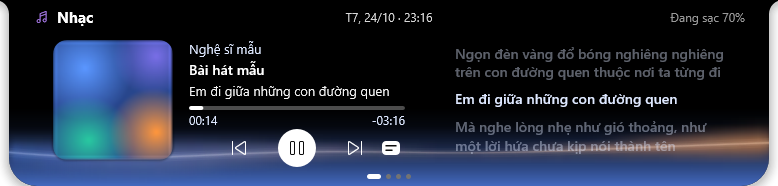
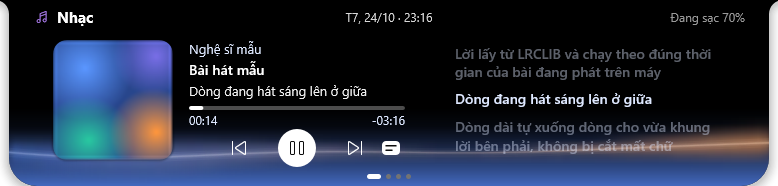
docs: ảnh trang Nhạc vẽ bằng renderer với dữ liệu tự tạo (bìa mảng màu, Bài hát mẫu, lời mô tả tính năng), không dùng bài hát thật; lời mẫu trong lyrics_preview

diff --git a/src/render.rs b/src/render.rs
@@ -2375,10 +2375,11 @@ mod tests {
             let (w, h) = (820, 210);
             let hwnd = CreateWindowExW(WS_EX_LAYERED, w!("STATIC"), w!("Lyrics preview"), WS_POPUP, 0, 0, w, h, None, None, None, None).unwrap();
             let lines = [
-                (0, "Đêm nay phố vắng người qua"), (6_000, "Ngọn đèn vàng đổ bóng nghiêng nghiêng trên con đường quen thuộc nơi ta từng đi"),
-                (12_000, "Em đi giữa những con đường quen"), (18_000, "Mà nghe lòng nhẹ như gió thoảng, như một lời hứa chưa kịp nói thành tên"),
-                (24_000, "Có những điều chưa kịp nói ra"), (30_000, "Cứ theo tháng ngày trôi mất"),
-                (36_000, "Nếu mai này ta còn gặp lại"), (42_000, "Xin cho nhau một nụ cười hiền"),
+                // Made-up lines about the feature itself (no song's lyrics in the README pictures).
+                (0, "Lời mẫu cho ảnh xem trước"), (6_000, "Lời lấy từ LRCLIB và chạy theo đúng thời gian của bài đang phát trên máy"),
+                (12_000, "Dòng đang hát sáng lên ở giữa"), (18_000, "Dòng dài tự xuống dòng cho vừa khung lời bên phải, không bị cắt mất chữ"),
+                (24_000, "Bấm nút lời để mở hoặc đóng khung này"), (30_000, "Tua bài thì lời nhảy theo"),
+                (36_000, "Hết lời thì khung tự trống"), (42_000, "Dòng mẫu cuối cùng"),
             ];
             let track = Track { title: "Bài hát mẫu".into(), artist: "Nghệ sĩ mẫu".into(), duration_ms: 210_000, position_ms: 14_000, playing: true,
                 can_toggle: true, can_next: true, can_previous: true, can_seek: true,
@@ -2461,7 +2462,7 @@ mod tests {
             let _ = CoInitializeEx(None, COINIT_APARTMENTTHREADED);
             let (w, h) = (530i32, 210i32);
             let hwnd = CreateWindowExW(WS_EX_LAYERED, w!("STATIC"), w!("Aurora preview"), WS_POPUP, 0, 0, w, h, None, None, None, None).unwrap();
-            let track = Track { title: "Bản nhạc đang phát".into(), artist: "Nghệ sĩ mẫu".into(), duration_ms: 210_000, position_ms: 64_000, playing: true,
+            let track = Track { title: "Bài hát mẫu".into(), artist: "Nghệ sĩ mẫu".into(), duration_ms: 210_000, position_ms: 64_000, playing: true,
                 can_toggle: true, can_next: true, can_previous: true, can_seek: true,
                 art: std::env::var("PUW_PREVIEW_COVER").ok().and_then(|p| std::fs::read(p).ok()).map(Arc::new), art_key: 1, ..Default::default() };
             let mut renderer = Renderer::new().unwrap();
